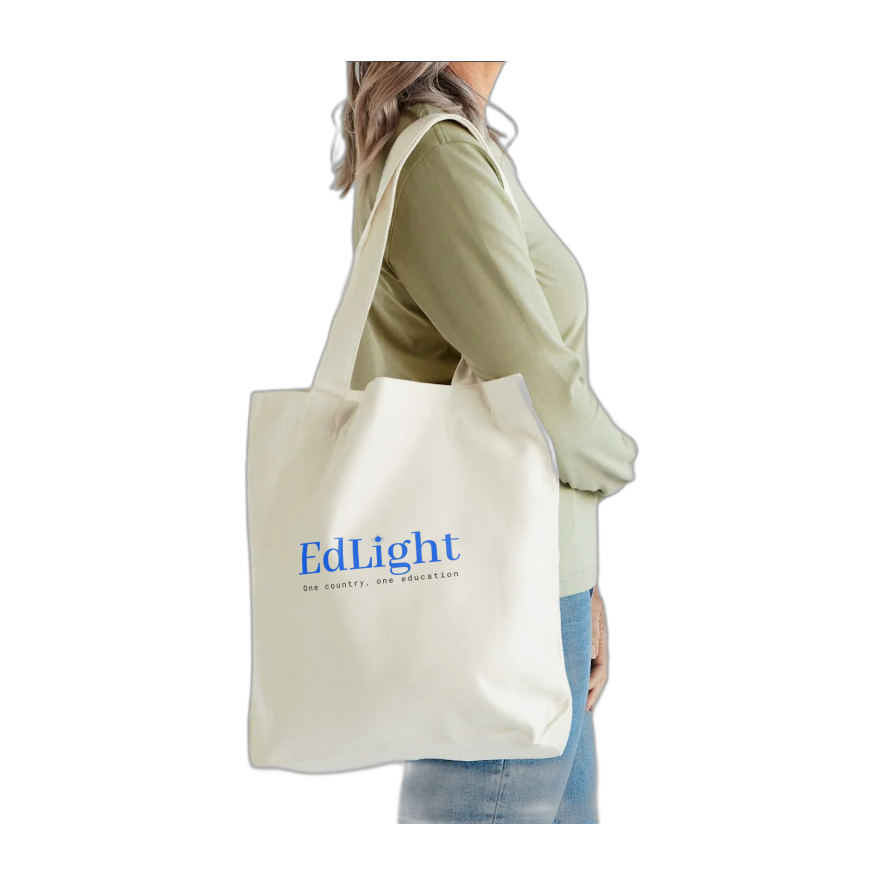
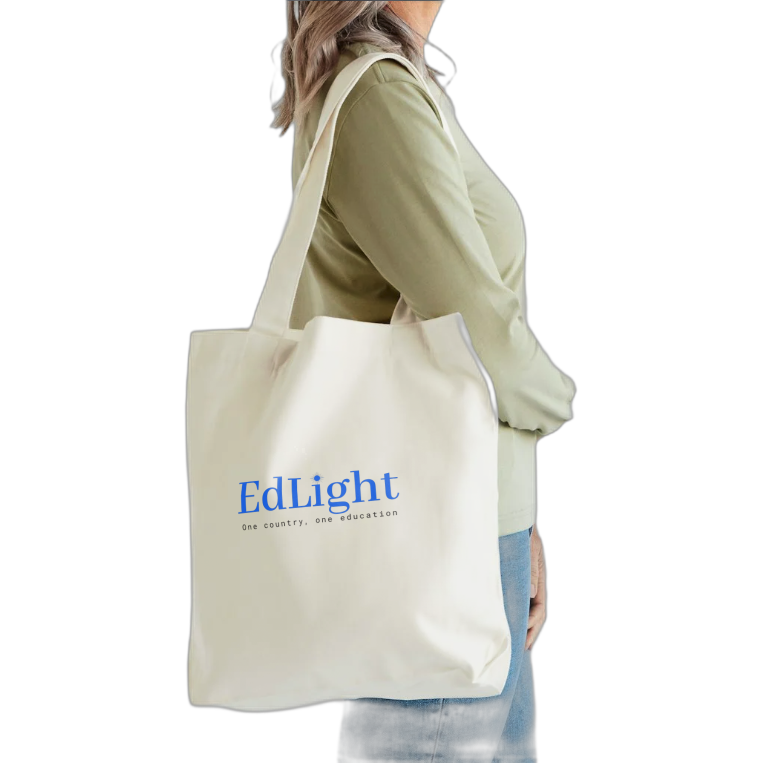
store: make tote fill its tile (no padding)

Changed region(s): [[0.2412, 0.0, 0.7536, 1.0]]

diff --git a/app/store/page.tsx b/app/store/page.tsx
@@ -27,6 +27,7 @@ export default function StorePage() {
           <div className="grid sm:grid-cols-2 lg:grid-cols-4 gap-6 sm:gap-8 mt-12">
             {storeData.map((product) => {
               const isSponsorKit = product.name.toLowerCase().includes('sponsor')
+              const isTote = product.name.toLowerCase().includes('tote')
               return (
                 <article
                   key={product.id}
@@ -42,6 +43,8 @@ export default function StorePage() {
                       className={
                         isSponsorKit
                           ? 'object-cover'
+                          : isTote
+                          ? 'object-contain group-hover:scale-[1.03] transition-transform duration-500'
                           : 'object-contain p-6 group-hover:scale-[1.03] transition-transform duration-500'
                       }
                     />
